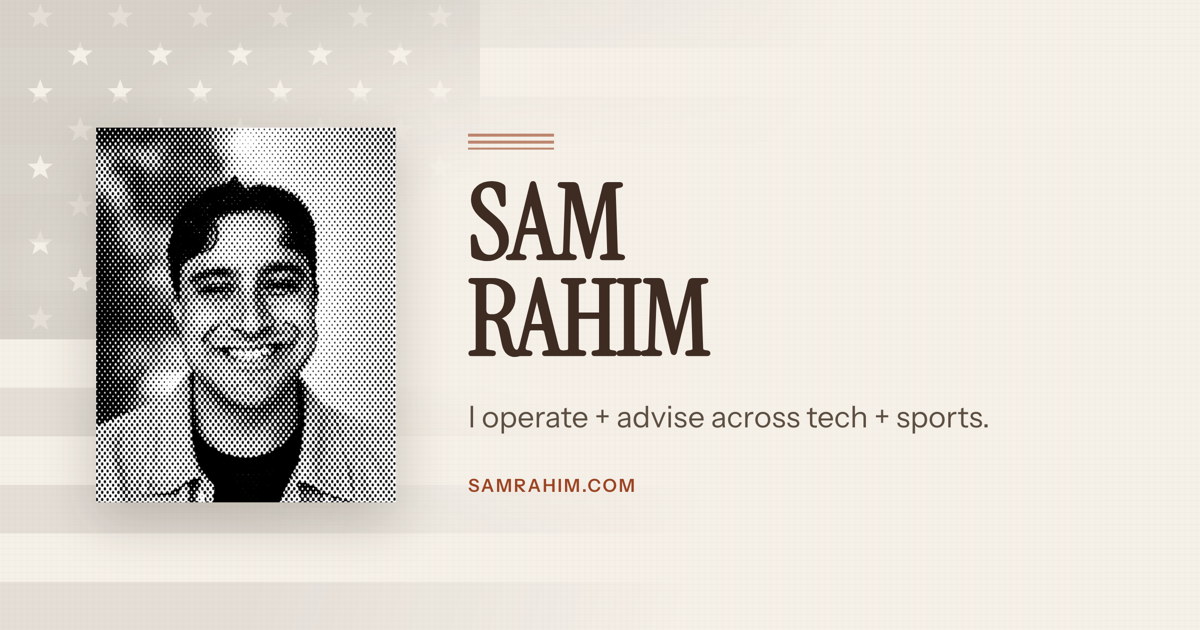
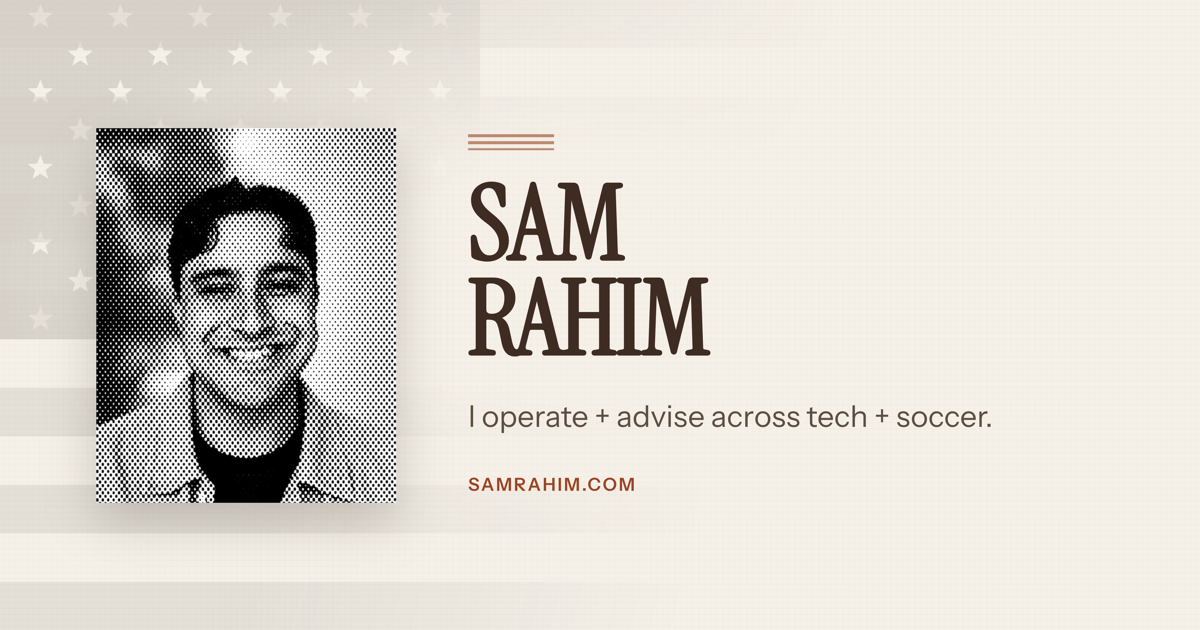
Change wedge to tech + soccer, rename World Cup card
Swap "tech + sports" -> "tech + soccer" everywhere (hero, bio,
Provisions line, meta + og descriptions, og-image) and re-render the
share PNG. Rename the Side Quests card to "Summer of Soccer, '26".

diff --git a/index.html b/index.html
@@ -4,9 +4,9 @@
   <meta charset="UTF-8">
   <meta name="viewport" content="width=device-width, initial-scale=1.0">
   <title>Sam Rahim</title>
-  <meta name="description" content="I operate + advise across tech + sports.">
+  <meta name="description" content="I operate + advise across tech + soccer.">
   <meta property="og:title" content="Sam Rahim">
-  <meta property="og:description" content="I operate + advise across tech + sports.">
+  <meta property="og:description" content="I operate + advise across tech + soccer.">
   <meta property="og:image" content="https://samrahim.com/og-image.png">
   <meta property="og:type" content="website">
   <meta name="twitter:card" content="summary_large_image">
@@ -1897,7 +1897,7 @@
     <div class="hero-content">
       <p class="hero-greeting" id="greeting"></p>
       <h1>Sam Rahim</h1>
-      <p class="hero-tagline">I operate + advise across tech + sports.</p>
+      <p class="hero-tagline">I operate + advise across tech + soccer.</p>
       <a href="#contact" class="hero-cta">What're you up to?</a>
     </div>
     <a href="#about" class="hero-scroll">Scroll</a>
@@ -1912,7 +1912,7 @@
       <img src="profile.png" alt="Sam Rahim" class="about-photo">
       <div class="about-text">
         <h2>Hi, I'm Sam Rahim.</h2>
-        <p>I spent the last decade working at high growth startups like <a href="https://instagram.com/streetfc" target="_blank" rel="noopener">Street FC</a>, <a href="https://instagram.com/switchyards" target="_blank" rel="noopener">Switchyards</a> and <a href="https://guild.com" target="_blank" rel="noopener">Guild</a>. Now, I advise + operate businesses across tech + sports.</p>
+        <p>I spent the last decade working at high growth startups like <a href="https://instagram.com/streetfc" target="_blank" rel="noopener">Street FC</a>, <a href="https://instagram.com/switchyards" target="_blank" rel="noopener">Switchyards</a> and <a href="https://guild.com" target="_blank" rel="noopener">Guild</a>. Now, I advise + operate businesses across tech + soccer.</p>
         <p>I'm from Southern California, and lived there for my first 25 years. When I was in college at UC Irvine, I spent a summer in the jungles of Belize doing archaeology - our team found dozens of artifacts + structures that were thousands of years old.</p>
         <p>I began my career at Disney's corporate campus in LA - where, ultimately, I met my wife. We live in Orlando and are expecting our first child imminently!</p>
       </div>
@@ -1930,7 +1930,7 @@
         <h3 class="timeline-company">Provisions</h3>
         <p class="timeline-role">Proprietor</p>
         <p class="timeline-date">2025 &ndash; Present</p>
-        <p class="timeline-desc">I work with founders + operators across tech + sports.</p>
+        <p class="timeline-desc">I work with founders + operators across tech + soccer.</p>
 
         <a href="https://provisions.work" target="_blank" rel="noopener" class="provisions-link">See the work &rarr;</a>
       </div>
@@ -2010,7 +2010,7 @@
       <a class="venture-card scroll-reveal scroll-reveal-delay-2" href="https://provisions.soccer" target="_blank" rel="noopener">
         <div class="venture-header">
           <div>
-            <h3>Provisions for the World Cup</h3>
+            <h3>Summer of Soccer, &rsquo;26</h3>
           </div>
           <span class="venture-status live">Live</span>
         </div>

diff --git a/og-image.html b/og-image.html
@@ -94,7 +94,7 @@
     <div class="text">
       <div class="stripe"></div>
       <h1 class="name">Sam<br>Rahim</h1>
-      <p class="tagline">I operate + advise across tech + sports.</p>
+      <p class="tagline">I operate + advise across tech + soccer.</p>
       <p class="url">samrahim.com</p>
     </div>
   </div>
